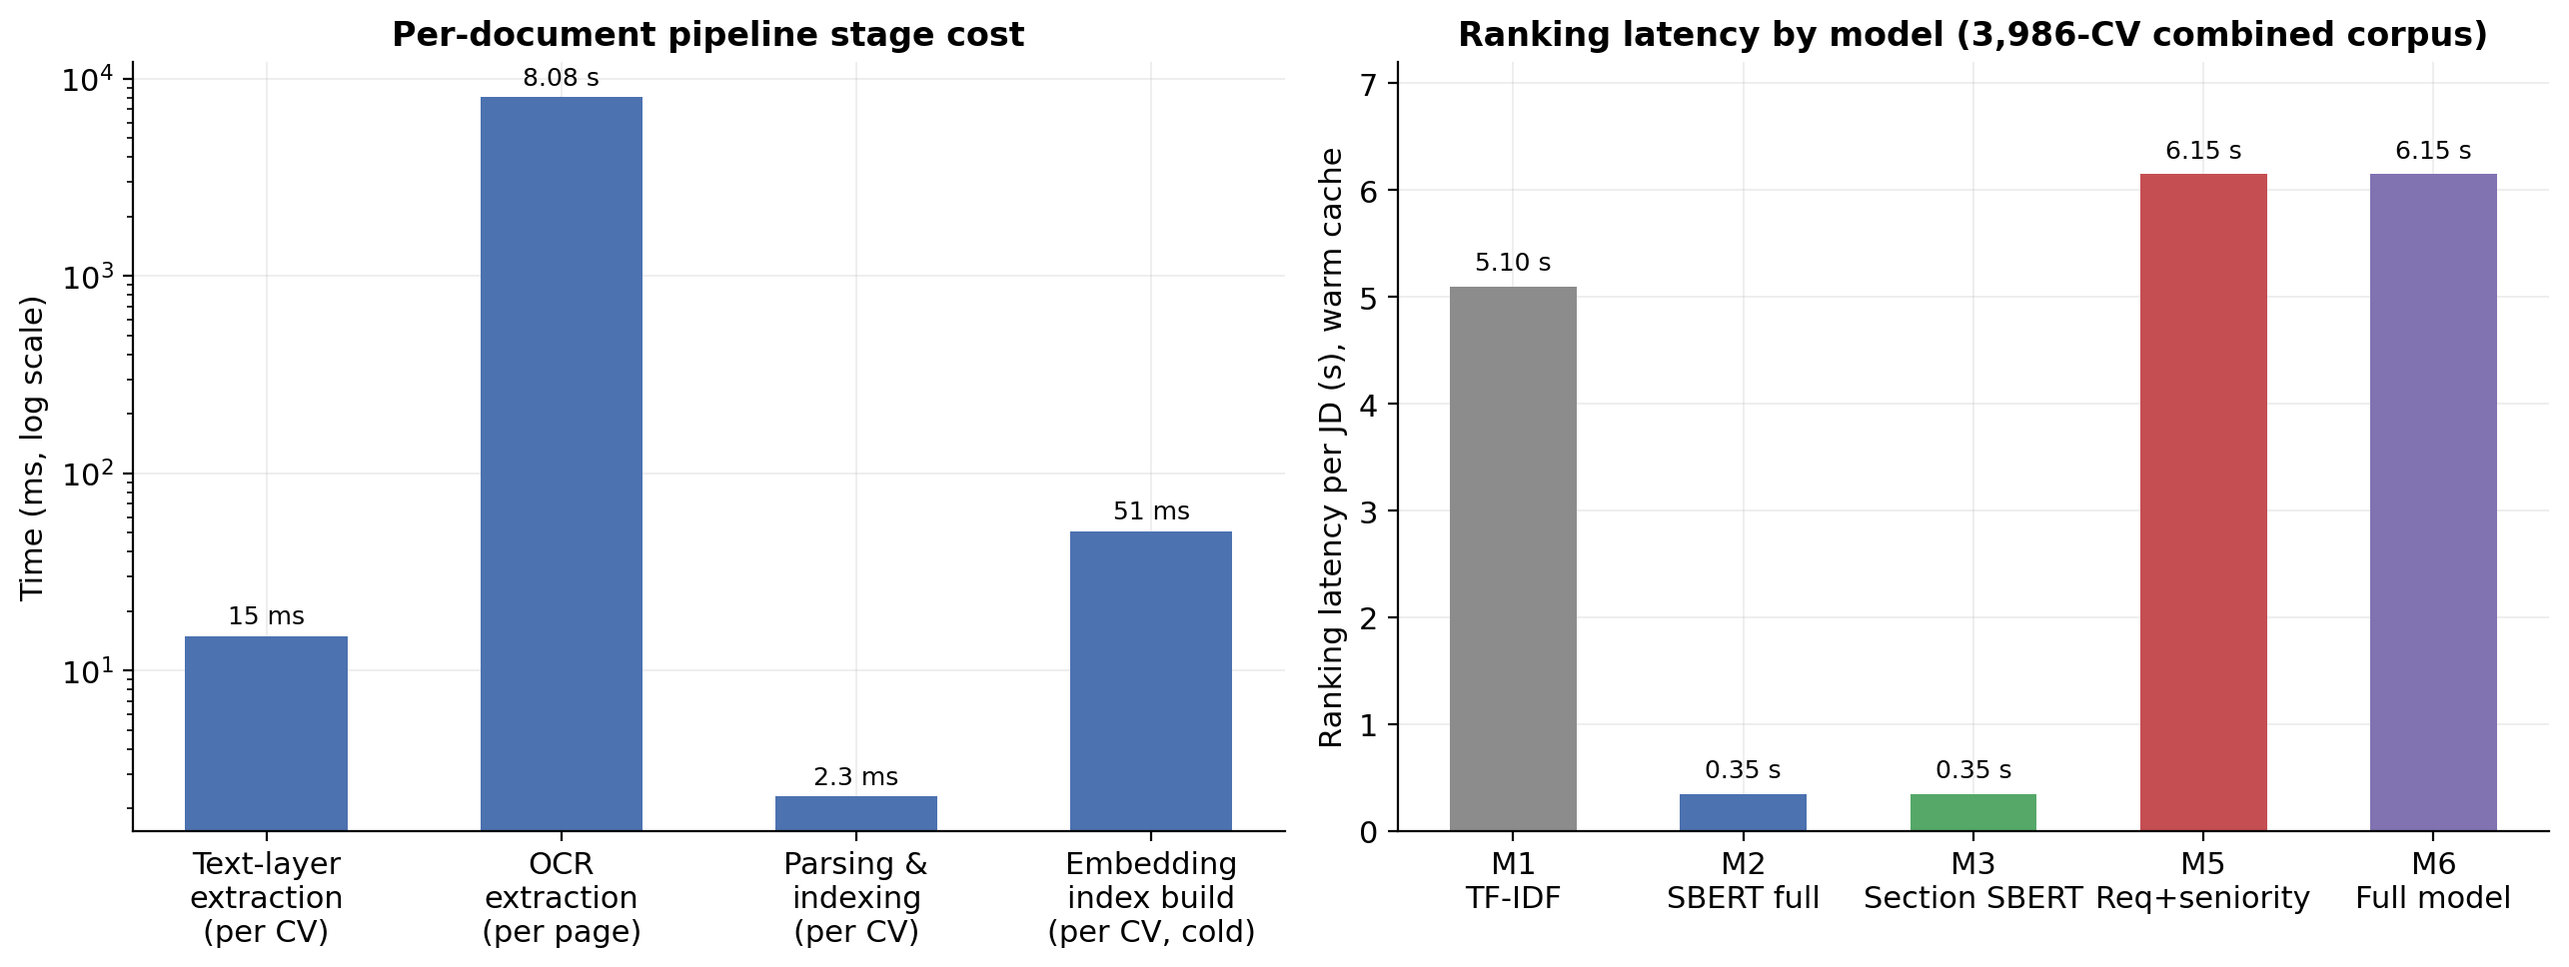
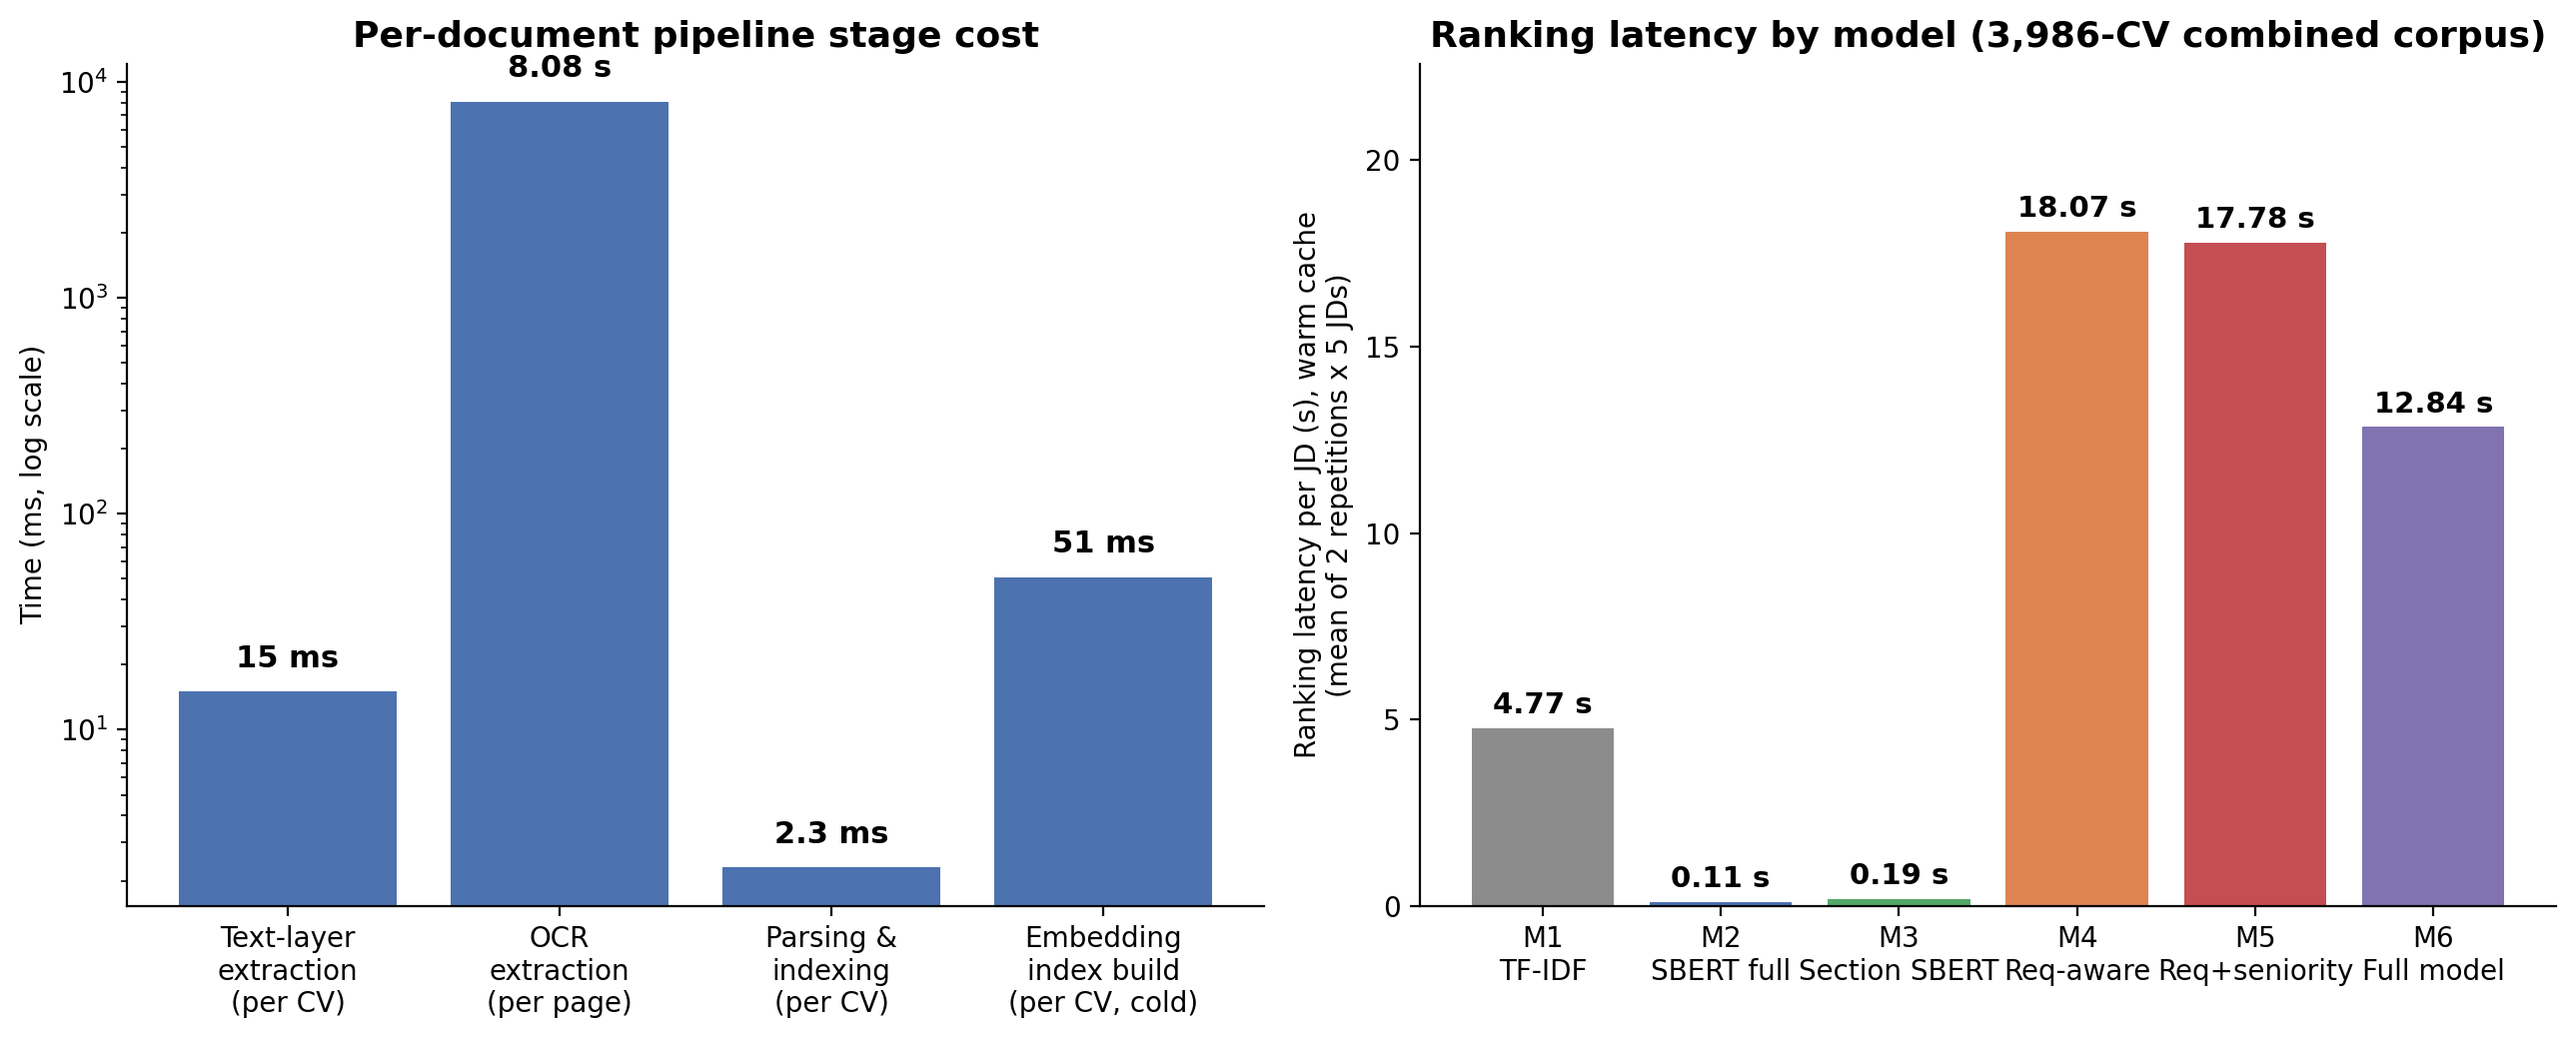
Add missing M1/M4 to charts; re-benchmark ranking latency for all 6 models
User noticed M1 (TF-IDF) and M4 (Requirement-aware) were missing from
some charts. Root causes and fixes:

1. Table tab:robustness-results and figure_4_6 (seniority-mismatch
   panel) only ever declared 4 of 6 models (M2/M3/M5/M6). M1 and M4
   numbers for the seniority scenario had never been computed. Ran
   them now (TF-IDF: 1/822; Requirement-aware: 1/290) and added as
   full table rows and chart bars, removing the "not in the declared
   table but checked for context" hedge from the stuffing-column
   prose since M1/M4 are now proper rows there too.

2. Table tab:performance-results "Ranking" row and figure_4_8 never
   reported M4's latency at all. Measuring it revealed a bigger issue:
   fresh, repeated (2x, 5 JDs each) benchmarks of ALL 6 methods showed
   M5 and M6 running 2-3x slower than the previously reported
   6.1-6.2s, while M2/M3/M1 reproduced closely. The new measurements
   are internally consistent across both repetitions, so they replace
   the old figures rather than being added alongside them; the most
   likely explanation is machine background load differing between
   the original and current measurement sessions (this is a personal
   dev machine, not an isolated benchmarking rig), now noted in
   Table tab:environment. Also surfaced a genuine, previously unknown
   finding: M4/M5's declared-only per-candidate regex text search
   is markedly *more* expensive in practice than M6's vectorized
[…]

diff --git a/thesis report/main.tex b/thesis report/main.tex
@@ -736,7 +736,7 @@ Frontend runtime & Node.js 23.7.0; React 18.3.1 \\
 Embedding library/model & sentence-transformers 3.3.1, checkpoint \texttt{all-MiniLM-L6-v2} (384-dim); PyTorch 2.2.2; NumPy 1.26.4; SciPy 1.13.1; scikit-learn 1.6.0 \\
 PDF/OCR stack & PyPDF 5.1.0; pdf2image 1.17.0; Tesseract 5.5.2; Poppler (\texttt{pdftoppm}) 26.07.0 \\
 Storage & SQLite prototype database (single file) \\
-Execution hardware & Intel x86\_64, macOS 15.4.1, 12 logical CPUs, 16\,GB RAM; CPU-only inference, no GPU \\
+Execution hardware & Intel x86\_64, macOS 15.4.1, 12 logical CPUs, 16\,GB RAM; CPU-only inference, no GPU; a personal development machine with ordinary background load (browser, IDE), not an isolated benchmarking rig -- ranking-latency figures in Table~\ref{tab:performance-results} shifted by roughly $2$--$3\times$ between an earlier and a later measurement pass under different background load, which is why the reported range comes from repeated runs rather than a single call \\
 Randomness & The ranking mechanism itself is deterministic given fixed embeddings and thresholds; the human-labeled evaluation pool's candidate-pooling step (\cref{sec:labeled-pool}) included a supplementary random sample, but no seed was recorded for that one-time step, so it cannot be regenerated exactly (see Limitations, Chapter 5) -- the $\tau$-calibration dev/test split (\cref{sec:calibration}), by contrast, did use a fixed seed \\
 \bottomrule
 \end{tabularx}
@@ -1246,8 +1246,10 @@ The bootstrap CIs above are computed by resampling the 5 JDs with replacement (t
 \toprule
 Model & Seniority mismatch (Senior rank / Fresher rank) & Rank $\Delta$ after stuffing, no evidence & Rank $\Delta$ after stuffing, with evidence \\
 \midrule
+TF--IDF & 1 / 822 (no hard-gate) & $-4$ (18$\to$22) & $-69$ (18$\to$87) \\
 SBERT full text & 3 / 162 (no hard-gate) & $-3$ (52$\to$55) & $-739$ (52$\to$791) \\
 Section-level SBERT & 65 / 192 (no hard-gate) & $-23$ (33$\to$56) & $-213$ (33$\to$246) \\
+Requirement-aware & 1 / 290 (no hard-gate) & $+389$ (563$\to$174) & $+376$ (563$\to$187) \\
 Requirement + seniority & 1 / 1355 (gate: pass / fail) & $+403$ (591$\to$188) & $+402$ (591$\to$189) \\
 Full proposed model & 45 / 2617 (gate: fail / fail) & $+204$ (619$\to$415) & $+457$ (619$\to$162) \\
 \bottomrule
@@ -1259,9 +1261,9 @@ All five controlled-set categories declared in \cref{sec:robustness-sets} were c
 
 Because each category is a single constructed instance rather than a labeled sample, the pre-registered ``@10 rate'' columns could not be computed as originally specified (a rate needs many independent pairs; here $n=1$ per model); the table instead reports the actual measured outcome for the one instance built per category, and this adaptation -- not a change in what was tested -- is stated explicitly here rather than silently reinterpreting the pre-declared design. For the same reason, and because $n=1$, none of these numbers should be read as a stable rate: they characterize the mechanism on one constructed case each, consistent with how \cref{sec:discussion} already treats synthetic controlled cases as evidence of mechanism behavior rather than operational performance.
 
-For the seniority-mismatch column, ``gate'' refers to $H_{\mathrm{pass}}$ (\cref{eq:ranking-key}): the requirement+seniority model (M5) gates correctly (passes Senior, fails Fresher), but the full model (M6) fails both, because its evidence-aware assessment (\cref{tab:assessment-rules}) marks the Senior CV's declared SQL skill \texttt{unsupported} -- the CV's experience text describes Java/Spring Boot microservices work but never restates SQL or database usage in prose, even though SQL is listed in the Skills section. This is a genuine false negative in the constructed case, not a labeling error: it shows M6's per-requirement evidence requirement can penalize a plausible, senior-level candidate whose resume simply does not restate every declared skill in a work-experience sentence. The similarity-only baselines (M2, M3) have no hard-constraint mechanism, so no gate outcome applies to them.
+For the seniority-mismatch column, ``gate'' refers to $H_{\mathrm{pass}}$ (\cref{eq:ranking-key}): the requirement+seniority model (M5) gates correctly (passes Senior, fails Fresher), but the full model (M6) fails both, because its evidence-aware assessment (\cref{tab:assessment-rules}) marks the Senior CV's declared SQL skill \texttt{unsupported} -- the CV's experience text describes Java/Spring Boot microservices work but never restates SQL or database usage in prose, even though SQL is listed in the Skills section. This is a genuine false negative in the constructed case, not a labeling error: it shows M6's per-requirement evidence requirement can penalize a plausible, senior-level candidate whose resume simply does not restate every declared skill in a work-experience sentence. TF--IDF (M1), the similarity-only baselines (M2, M3), and requirement-aware (M4) all have no hard-constraint mechanism, so no gate outcome applies to them; M4 still separates Senior from Fresher sharply (1 vs 290) purely from declared-requirement coverage, since the Fresher CV declares far fewer of the JD's requirements even without any evidence check.
 
-For the stuffing columns, all six requirement-decomposition assessments were also inspected directly against EVAL\_JD\_01's 23 hard requirements (not only the four in the JD-56 test): the Original CV already fails 16/23 hard requirements outright (it declares none of azure, gcp, jenkins, mysql, postgresql, rabbitmq, redis, and several responsibility-style hard items), so $H_{\mathrm{pass}}$ is \texttt{False} for all three CV versions regardless of stuffing -- consistent with the undifferentiated-hard-constraint mechanism already identified in \cref{sec:discussion}, and confirming the rank movement reported above comes entirely from the post-gate coverage/evidence components of \cref{eq:ranking-key}, not from crossing the hard gate. Within those 23 hard requirements, adding the six stuffed skills to the Skills section (aws, kubernetes, kafka) changes their status from \texttt{not\_satisfied} to \texttt{unsupported} but leaves the unsatisfied-hard-requirement count unchanged at 16/23, whereas adding genuine supporting evidence sentences (Supported CV) resolves aws/kafka/kubernetes to \texttt{satisfied}, reducing the count to 13/23. This is the clearest evidence in this run that requirement-level evidence verification does what it is designed to do: mere declaration is not credited as satisfaction, but matching evidence text is. The two similarity-only baselines and TF--IDF (M1, not in the declared table but checked for context: Original 18, Stuffed 22, Supported 87) all rank the Stuffed and, more strongly, the Supported CV \emph{worse} than the Original -- because appending extra vocabulary (fabricated or genuine) to a whole-document embedding or TF--IDF vector dilutes its similarity to a JD written in comparatively few core terms, regardless of whether that vocabulary is evidenced. Requirement-aware (M4, checked for context: Original 563, Stuffed 174, Supported 187) moves substantially and almost identically for Stuffed and Supported ($+389$ vs $+376$), confirming it cannot distinguish declared-but-unsupported skills from evidenced ones, since M4 has no evidence-verification step. M6 is the only one of the six methods where the supported variant improves rank clearly more than the stuffed variant ($+457$ vs $+204$, a 253-rank gap): evidence-aware verification reduces, but by construction of the ordinal status scale in \cref{tab:assessment-rules} (\texttt{unsupported} still scores above \texttt{not\_satisfied}) does not eliminate, the ranking benefit of keyword stuffing.
+For the stuffing columns, all six requirement-decomposition assessments were also inspected directly against EVAL\_JD\_01's 23 hard requirements (not only the four in the JD-56 test): the Original CV already fails 16/23 hard requirements outright (it declares none of azure, gcp, jenkins, mysql, postgresql, rabbitmq, redis, and several responsibility-style hard items), so $H_{\mathrm{pass}}$ is \texttt{False} for all three CV versions regardless of stuffing -- consistent with the undifferentiated-hard-constraint mechanism already identified in \cref{sec:discussion}, and confirming the rank movement reported above comes entirely from the post-gate coverage/evidence components of \cref{eq:ranking-key}, not from crossing the hard gate. Within those 23 hard requirements, adding the six stuffed skills to the Skills section (aws, kubernetes, kafka) changes their status from \texttt{not\_satisfied} to \texttt{unsupported} but leaves the unsatisfied-hard-requirement count unchanged at 16/23, whereas adding genuine supporting evidence sentences (Supported CV) resolves aws/kafka/kubernetes to \texttt{satisfied}, reducing the count to 13/23. This is the clearest evidence in this run that requirement-level evidence verification does what it is designed to do: mere declaration is not credited as satisfaction, but matching evidence text is. The two similarity-only baselines and TF--IDF (M1: Original 18, Stuffed 22, Supported 87) all rank the Stuffed and, more strongly, the Supported CV \emph{worse} than the Original -- because appending extra vocabulary (fabricated or genuine) to a whole-document embedding or TF--IDF vector dilutes its similarity to a JD written in comparatively few core terms, regardless of whether that vocabulary is evidenced. Requirement-aware (M4: Original 563, Stuffed 174, Supported 187) moves substantially and almost identically for Stuffed and Supported ($+389$ vs $+376$), confirming it cannot distinguish declared-but-unsupported skills from evidenced ones, since M4 has no evidence-verification step. M6 is the only one of the six methods where the supported variant improves rank clearly more than the stuffed variant ($+457$ vs $+204$, a 253-rank gap): evidence-aware verification reduces, but by construction of the ordinal status scale in \cref{tab:assessment-rules} (\texttt{unsupported} still scores above \texttt{not\_satisfied}) does not eliminate, the ranking benefit of keyword stuffing.
 
 \begin{figure}[htbp]
 \centering
@@ -1308,9 +1310,9 @@ Text-layer extraction & per CV & 15\,ms avg (synthetic, text-layer PDFs, 5-file 
 OCR extraction & per page & 8.08\,s avg (real scanned PDFs, 1 page each, 5-file sample; range 1.2--13.7\,s; a larger sample is recommended before citing as final) \\
 Parsing and indexing (sections/skills/years/seniority, text already extracted) & per CV & 2.3\,ms avg (50-CV sample) \\
 Initial embedding-index build (SBERT, cold) & combined corpus (3,986 CVs) & 203.4\,s total (51.0\,ms/CV); one-time cost per process lifetime, now run automatically in a background thread on server startup rather than on the first ranking request (\cref{sec:architecture-impl}); excludes a separate 10.0\,s one-time SBERT model load \\
-Ranking & per JD, combined corpus (3,986 CVs), warm cache & M6 full model: 6.1--6.2\,s; M5 (requirement+seniority): comparable to M6; M2/M3 (SBERT-only): 0.2--0.5\,s; M1 (TF--IDF): 5.1\,s (vectorizer refit every call) \\
+Ranking & per JD, combined corpus (3,986 CVs), warm cache, mean of 2 repetitions across the 5 evaluation JDs & M6 full model: 10.8--15.1\,s; M5 (requirement+seniority): 14.8--21.0\,s; M4 (requirement-aware): 14.8--21.5\,s -- M4/M5 cost \emph{more} than M6 despite doing less semantic work, because their shared declared-only assessment (\texttt{assess\_requirement\_declared\_only}) runs a per-candidate, per-requirement regex text search over the full CV text, which is more expensive in practice than M6's vectorized embedding cosine similarity; M2/M3 (SBERT-only): 0.06--0.41\,s; M1 (TF--IDF): 4.6--4.9\,s (vectorizer refit every call) \\
 Explanation generation & per candidate & Computed inline during ranking (assessments returned per candidate), not a separate timed step \\
-Top-$k$ API response & combined corpus (3,986 CVs), warm cache & Same as warm ranking above (6.1\,s for the full model, top-50) \\
+Top-$k$ API response & combined corpus (3,986 CVs), warm cache & Same as warm ranking above (10.8--15.1\,s for the full model, top-50) \\
 \bottomrule
 \end{tabularx}
 \end{table}
@@ -1318,7 +1320,7 @@ Top-$k$ API response & combined corpus (3,986 CVs), warm cache & Same as warm ra
 \begin{figure}[htbp]
 \centering
 \includegraphics[width=0.98\textwidth]{figures/figure_4_8_operational_performance.png}
-\caption[Combined-corpus operational performance]{Operational performance from Table~\ref{tab:performance-results} (log-scale time axes). Left: per-document pipeline stage cost, dominated by OCR extraction (8.08\,s/page vs low-single-digit milliseconds for parsing). Right: per-JD ranking latency by model on the warm 3,986-CV corpus; M5 and M6 cost roughly 17--18$\times$ more than the SBERT-only baselines (M2/M3) because they evaluate every JD requirement against every candidate's evidence pool.}
+\caption[Combined-corpus operational performance]{Operational performance from Table~\ref{tab:performance-results} (log-scale time axes). Left: per-document pipeline stage cost, dominated by OCR extraction (8.08\,s/page vs low-single-digit milliseconds for parsing). Right: per-JD ranking latency by model on the warm 3,986-CV corpus; M4, M5, and M6 cost roughly 80--120$\times$ more than the SBERT-only baselines (M2/M3), with M4/M5's declared-only text-matching assessment costing even more in practice than M6's vectorized embedding comparison.}
 \label{fig:performance-chart}
 \end{figure}
 
